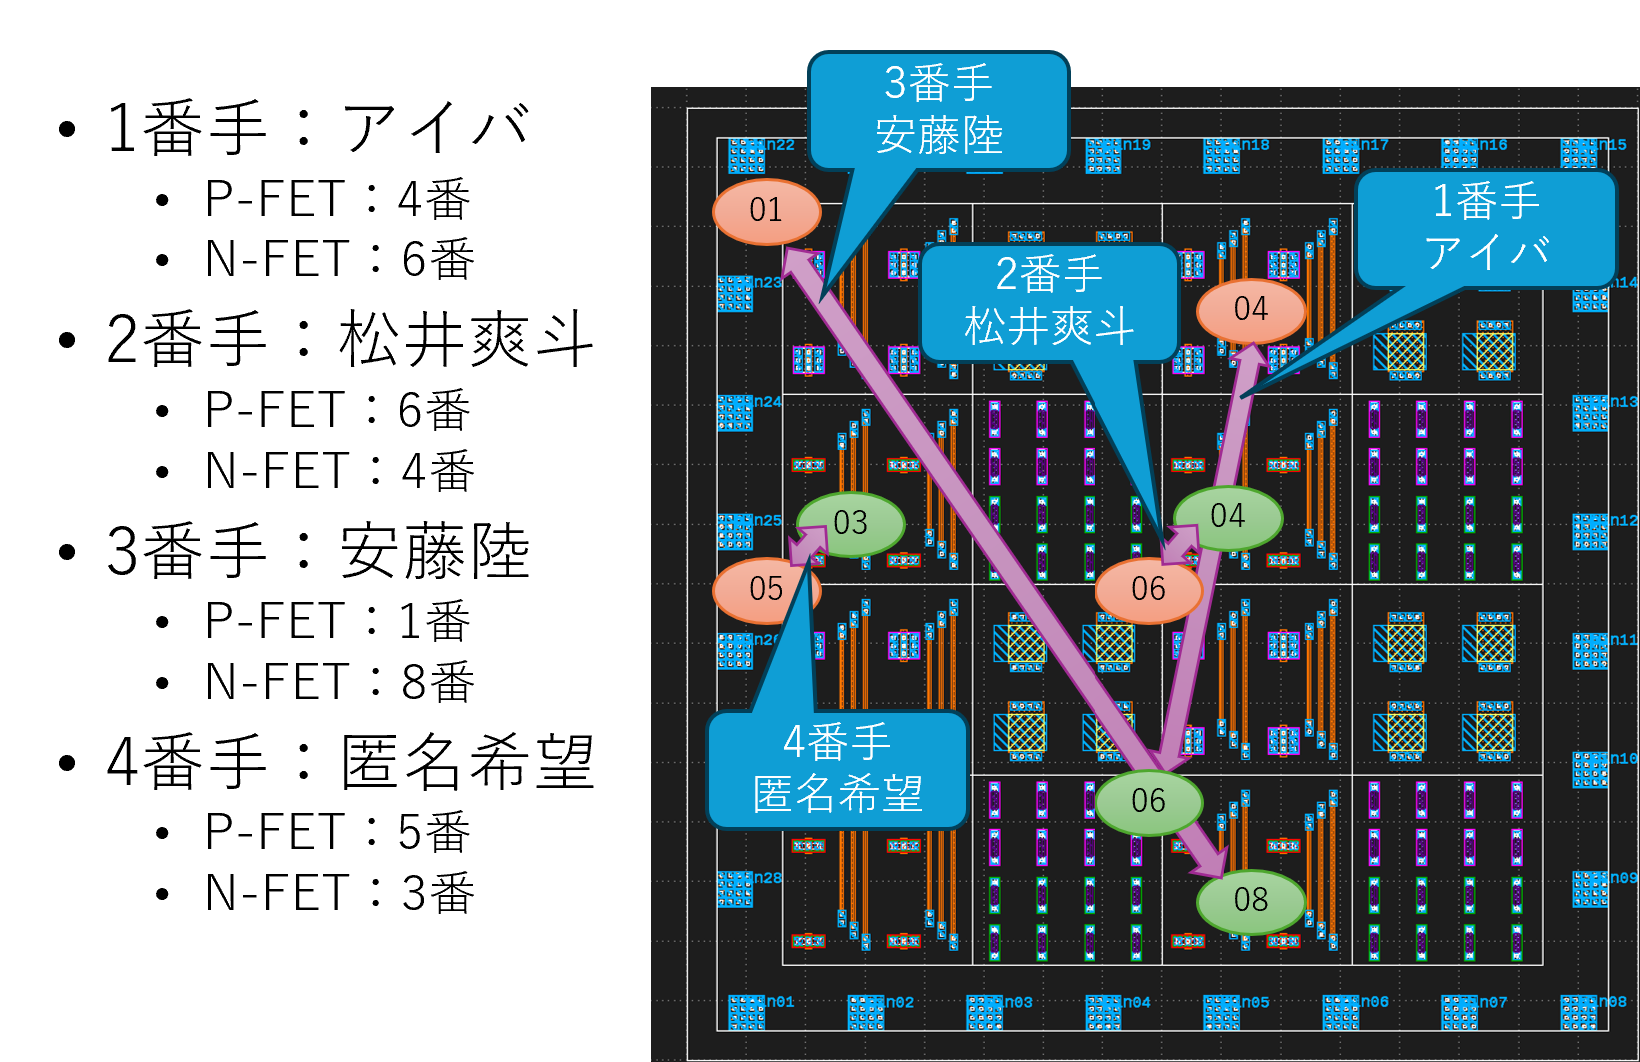
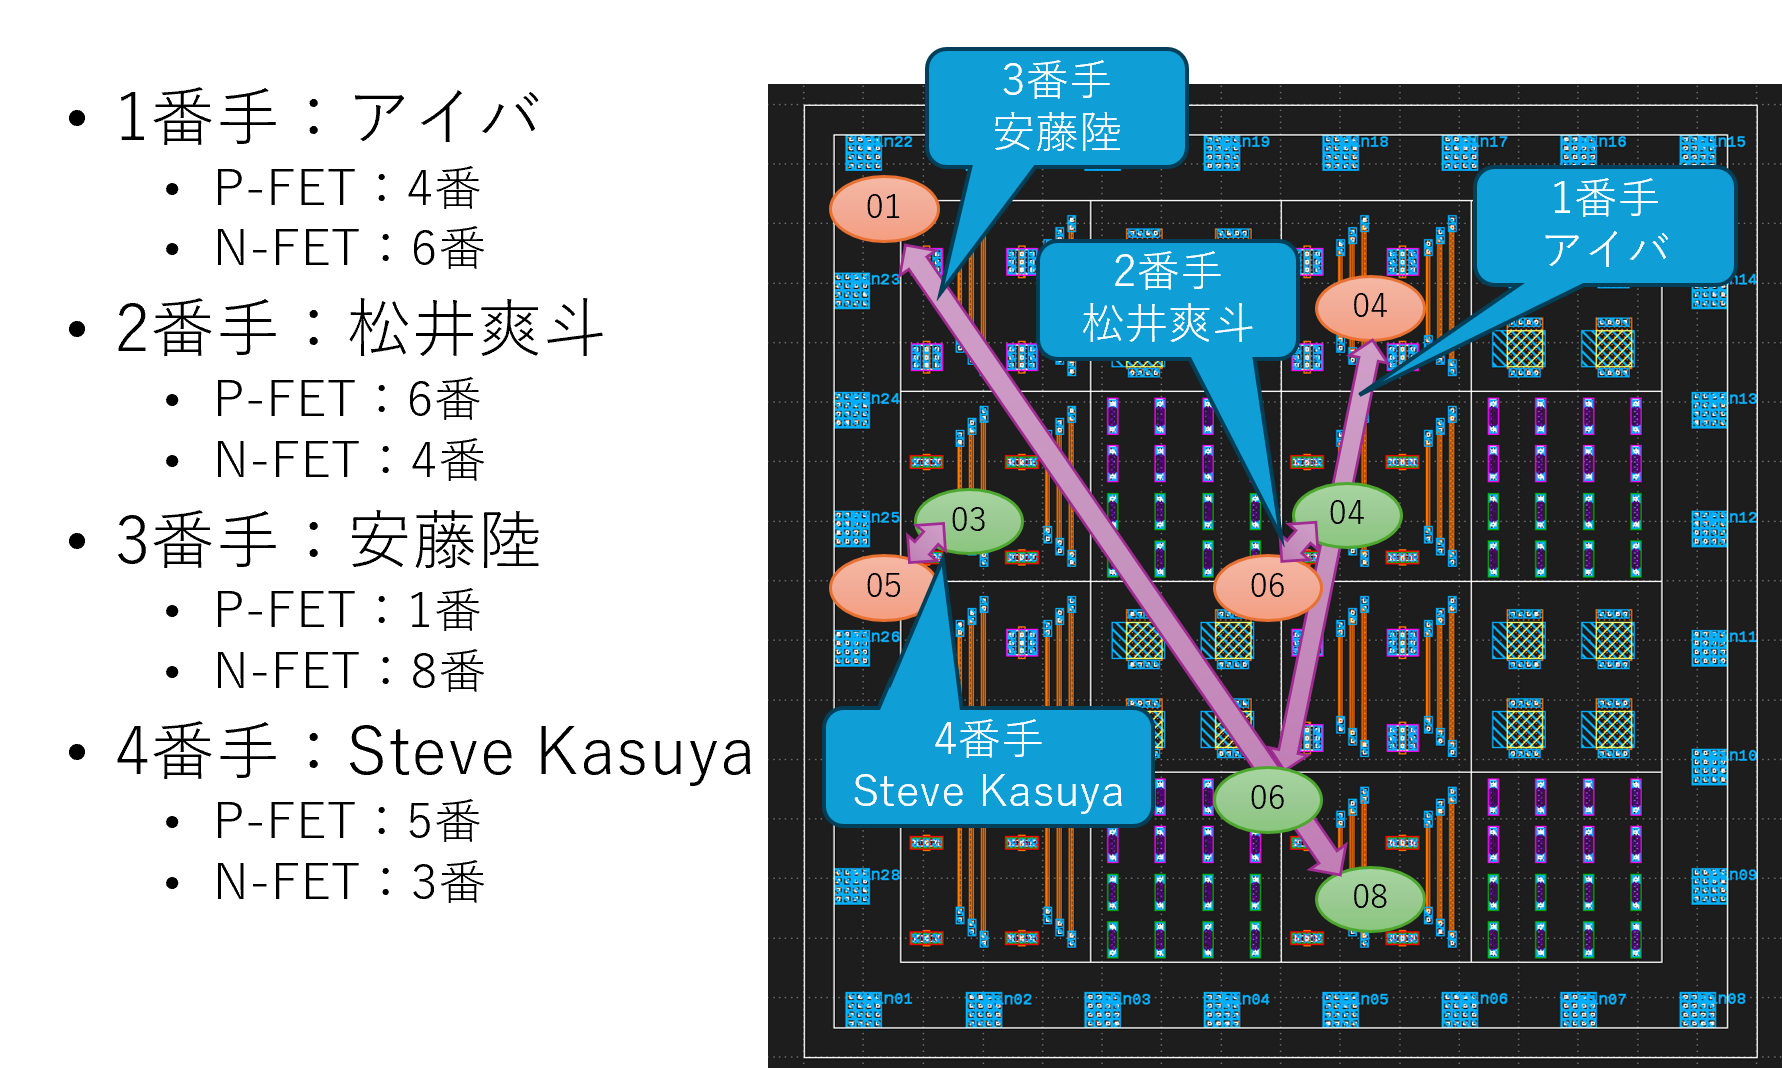
Add 4th member's data.
Add 4th member's data.

diff --git a/README.md b/README.md
@@ -27,7 +27,7 @@
 - 3番手：安藤陸
     - P-FET：1番
     - N-FET：8番
-- 4番手：匿名希望
+- 4番手：Steve Kasuya
     - P-FET：5番
     - N-FET：3番
 
